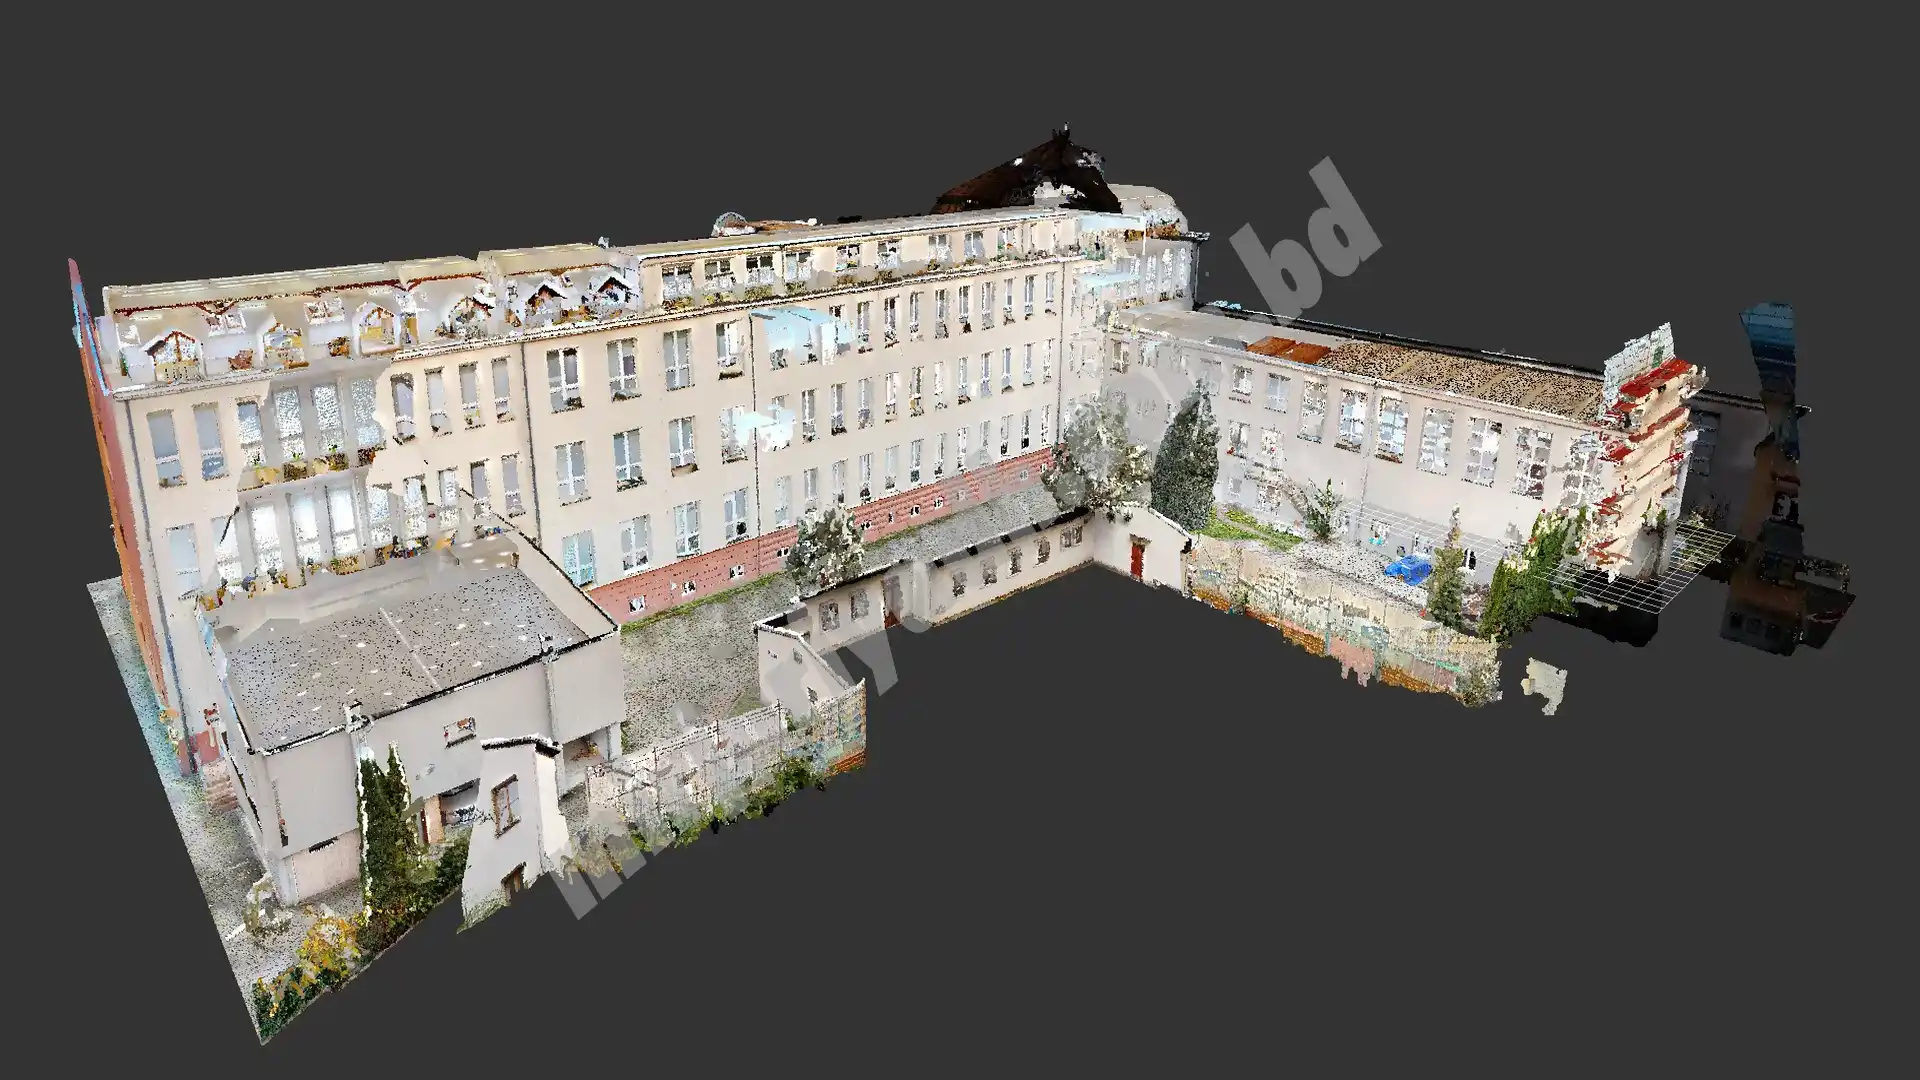
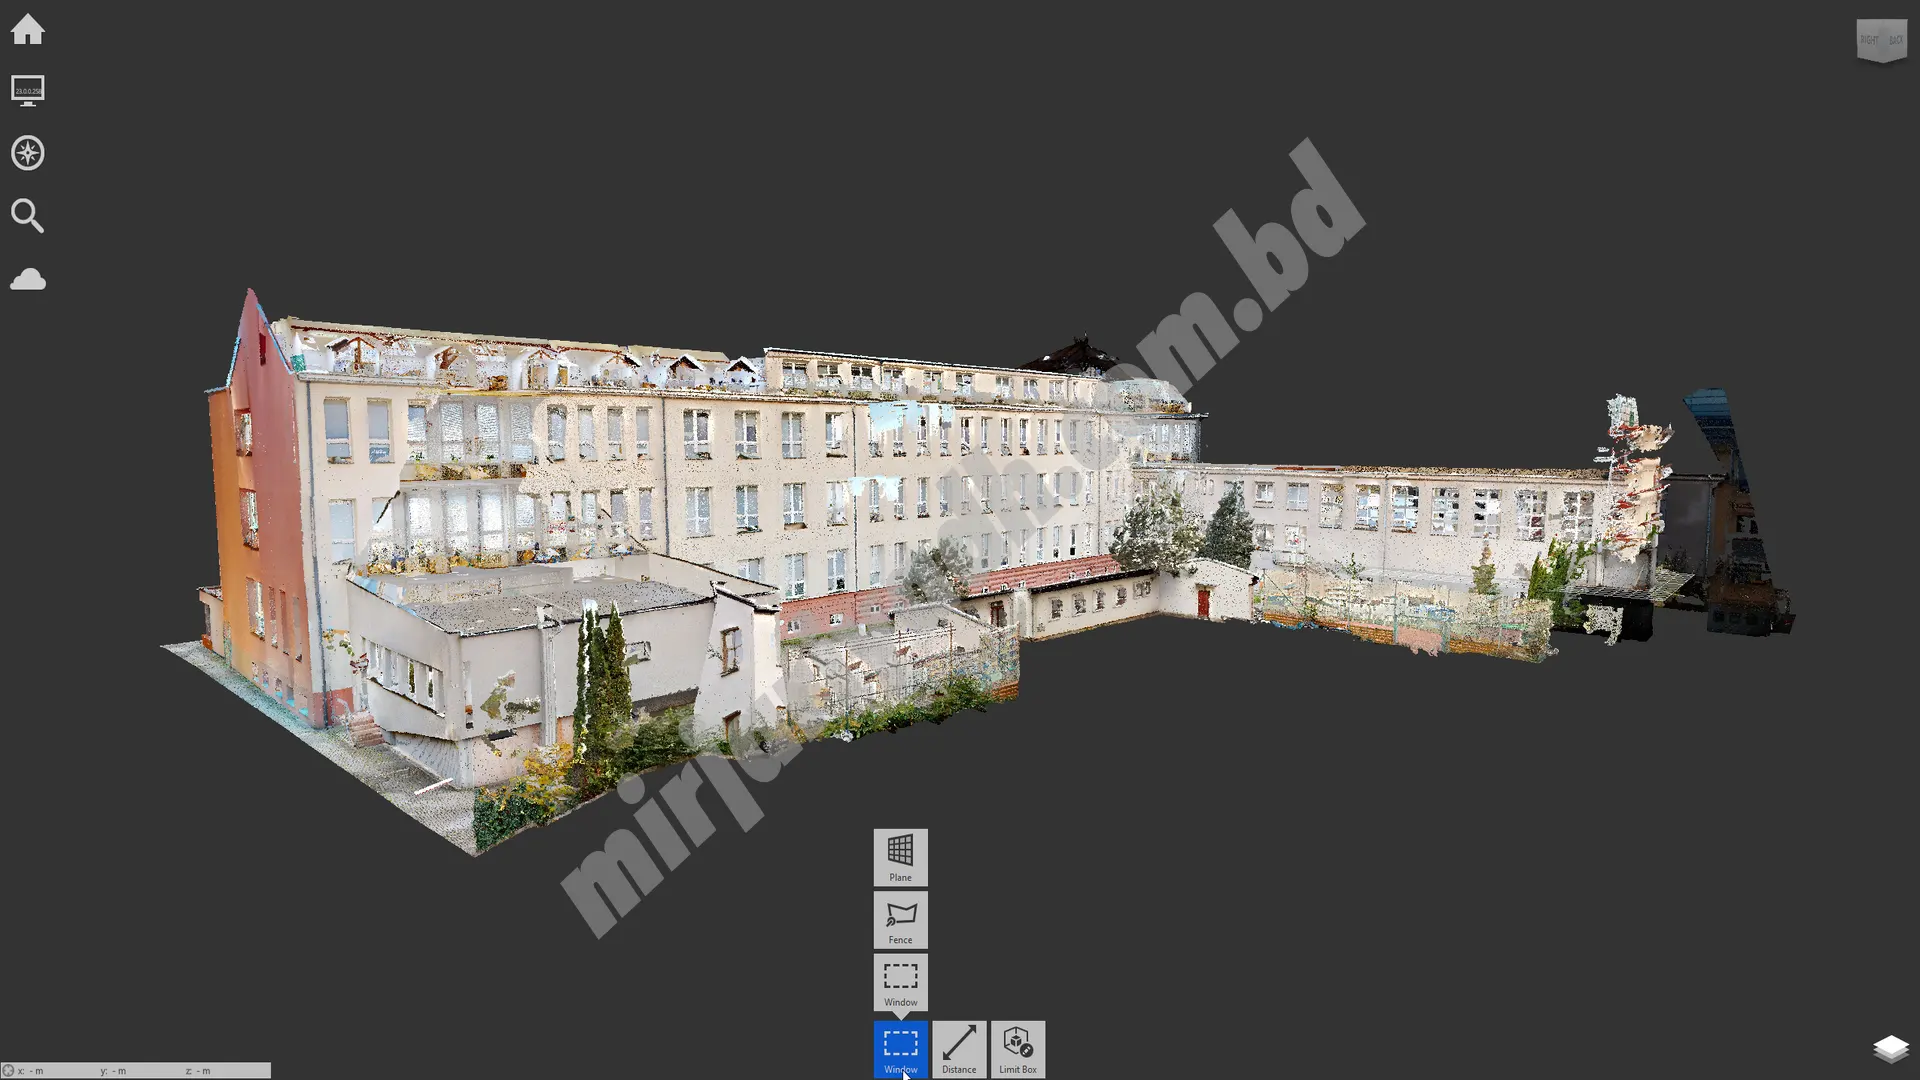
project update

diff --git a/js/projects-data.js b/js/projects-data.js
@@ -886,7 +886,7 @@ var PORTFOLIO_PROJECTS = [
 
   {
     "id": "project-13",
-    "title": "Point Cloud to Revit Conversion for a School Building",
+    "title": "Point Cloud to Revit Conversion of a School Building",
     "category": [
       "point-cloud"
     ],
@@ -894,10 +894,11 @@ var PORTFOLIO_PROJECTS = [
     "buildingType": "educational",
     "thumbnail": "./src/assets/images/projects/point-cloud-p4/t0.webp",
     "images": [
-      {"url": "./src/assets/images/projects/point-cloud-p4/t0.webp", "caption": "3D Render View", "group": "Comparison"},
-      {"url": "./src/assets/images/projects/point-cloud-p4/p0.webp", "caption": "3D Point Cloud", "group": "Comparison"},
-      {"url": "./src/assets/images/projects/point-cloud-p4/p1.webp", "caption": "Cover Page", "group": "3D View"},
-      {"url": "./src/assets/images/projects/point-cloud-p4/p2.webp", "caption": "3D Views", "group": "3D View"},
+      {"url": "./src/assets/images/projects/point-cloud-p4/p0.webp", "caption": "Point Cloud", "group": "Comparison"},
+      {"url": "./src/assets/images/projects/point-cloud-p4/t1.webp", "caption": "3D View", "group": "Comparison"},
+      {"url": "./src/assets/images/projects/point-cloud-p4/t2.webp", "caption": "3D Render View", "group": "3D Views"},
+      {"url": "./src/assets/images/projects/point-cloud-p4/p2.webp", "caption": "3D Views", "group": "3D Views"},
+      {"url": "./src/assets/images/projects/point-cloud-p4/p1.webp", "caption": "Cover Page", "group": "3D Views"},
       {"url": "./src/assets/images/projects/point-cloud-p4/p3.webp", "caption": "Ground Floor Plan", "group": "Architectural Plans"},
       {"url": "./src/assets/images/projects/point-cloud-p4/p4.webp", "caption": "1st Floor Plan", "group": "Architectural Plans"},
       {"url": "./src/assets/images/projects/point-cloud-p4/p5.webp", "caption": "2st Floor Plan", "group": "Architectural Plans"},
